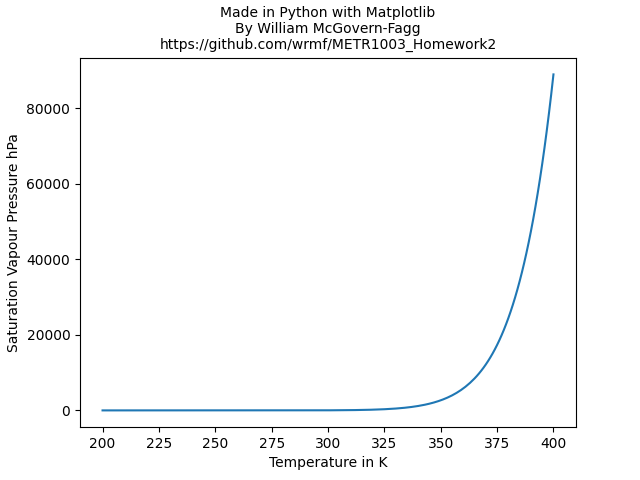
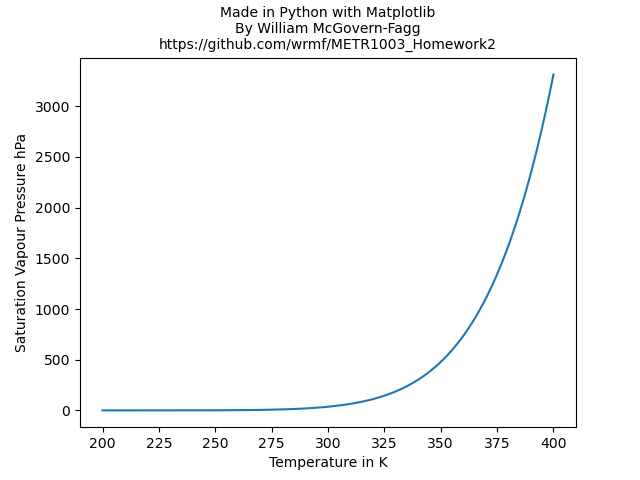
My equation was fked up, it's fixed now

diff --git a/main.py b/main.py
@@ -12,7 +12,7 @@ vapour = []
 temp = []
 
 while(counter <= 400):
-    vapour.append(math.pow(6.11, (((2.5*pow(10, 6))/461)*((1/273.15)-(1/counter)))))
+    vapour.append(6.11*math.pow(math.e, (((2.5*pow(10, 6))/461)*((1/273.15)-(1/counter)))))
     temp.append(counter)
     counter += 1
 
